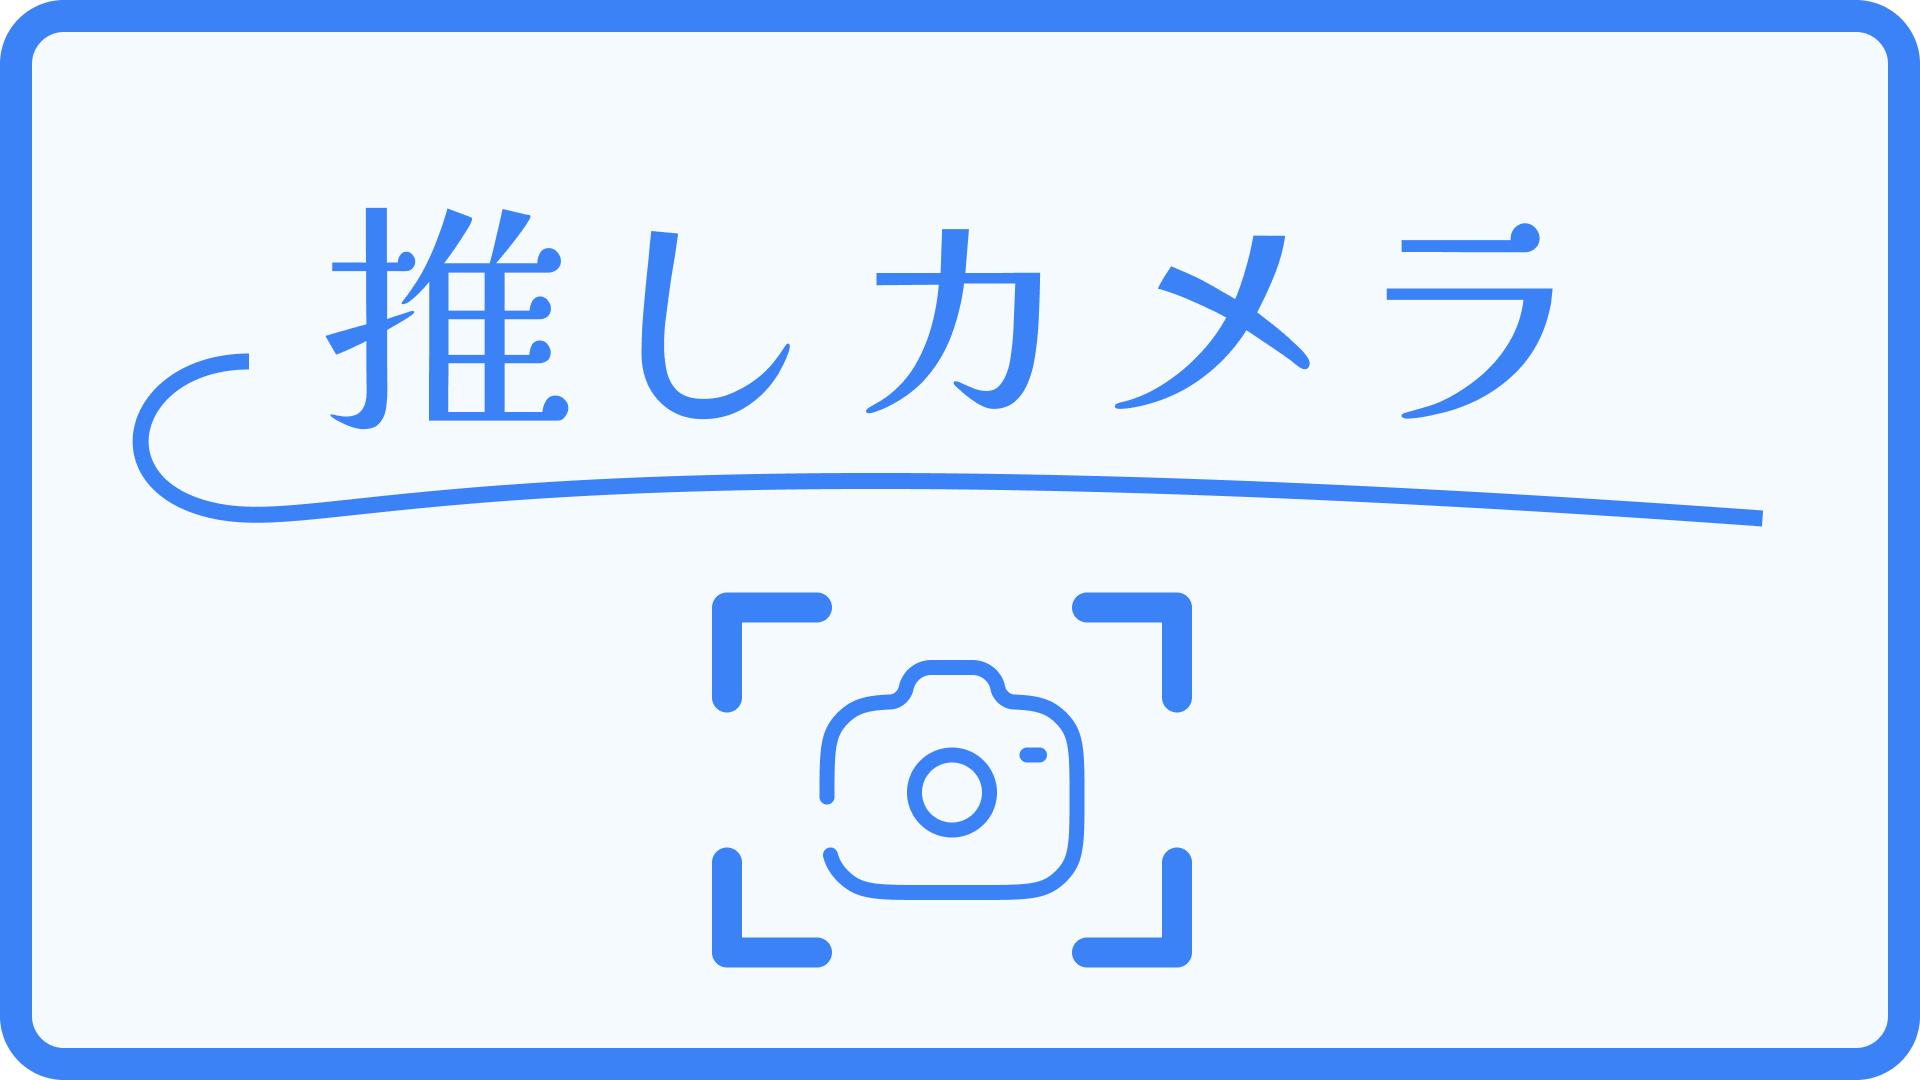
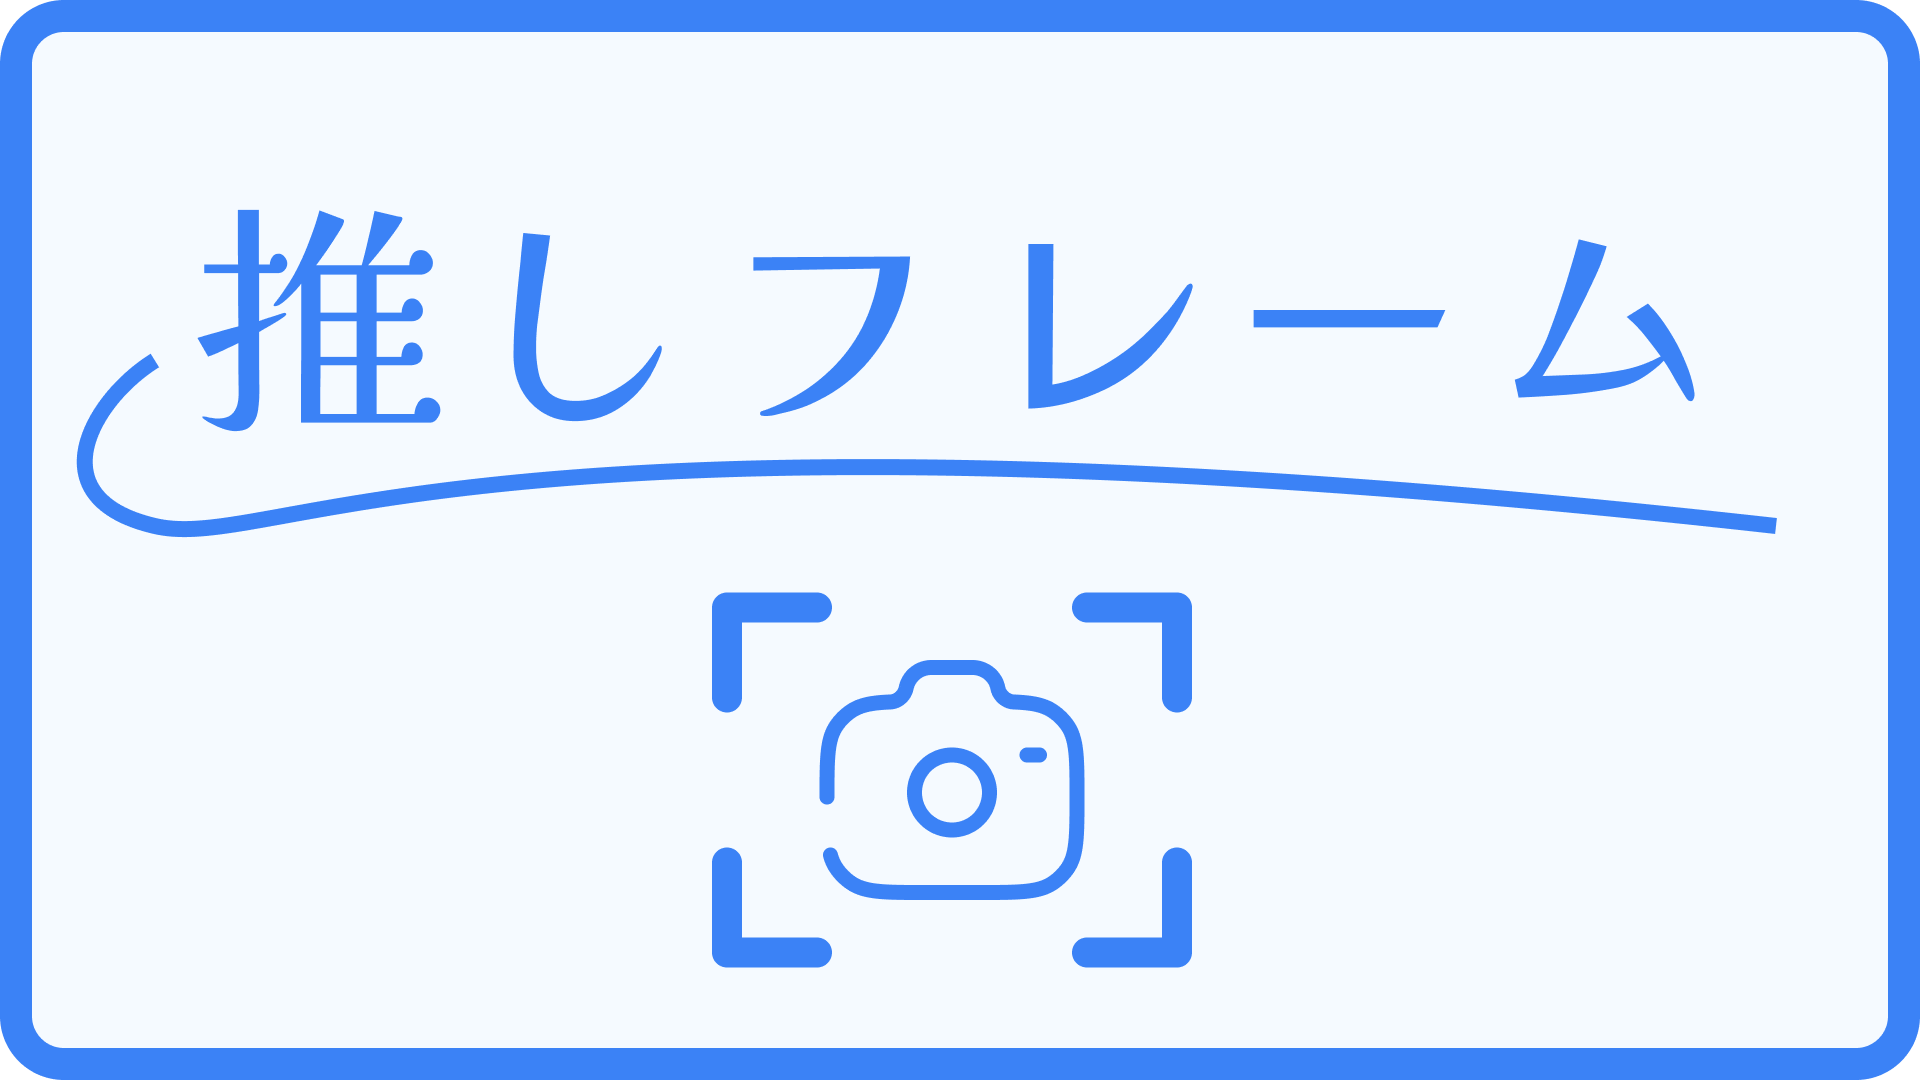
fix: 文言、OGP

Changed region(s): [[0.0312, 0.1833, 0.9062, 0.5194], [0.8438, 0.4583, 0.9375, 0.4889]]

diff --git a/src/components/ImageEditor.tsx b/src/components/ImageEditor.tsx
@@ -417,7 +417,7 @@ const ImageEditor: React.FC<ImageEditorProps> = ({ onCompleteHandler, onClose })
               color="primary"
               startIcon={<IconUpload />}
             >
-              アップロード
+              画像を追加
             </Button>
           </label>
         </div>
